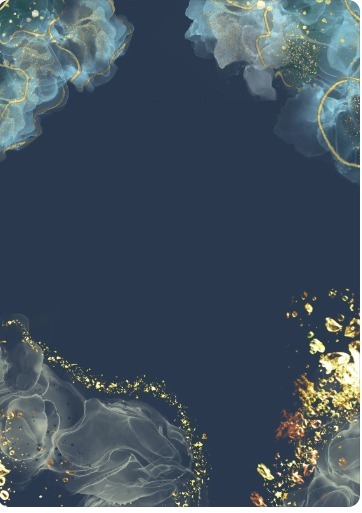
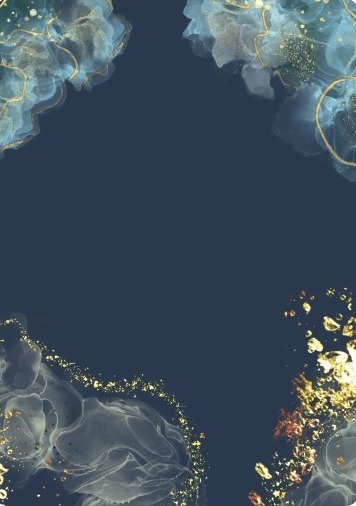
UPDATE background images

diff --git a/assetsB/scripts.js b/assetsB/scripts.js
@@ -114,7 +114,7 @@ function setNavbarTextColor(sectionId) {
             link.style.color = '#fff';
         });
         brandLink.style.color = '#fff';
-        bodyElement.style.backgroundImage = "url('images/blue1.jpg')"; 
+        bodyElement.style.backgroundImage = "url('images/blue2.jpg')"; 
     } else {
         // If in other sections, set text color to blue
         if (window.innerWidth > 991) {

diff --git a/assetsB/styles.css b/assetsB/styles.css
@@ -41,7 +41,7 @@ main.centered-section {
 
 /* Background image for the Welcome section */
 body {
-    background-image: url('./../images/dark1.jpg'); /* Replace with your welcome image path */
+    background-image: url('./../images/blue2.jpg'); /* Replace with your welcome image path */
     background-size: cover;
     background-repeat: no-repeat;
     background-position: center center;
